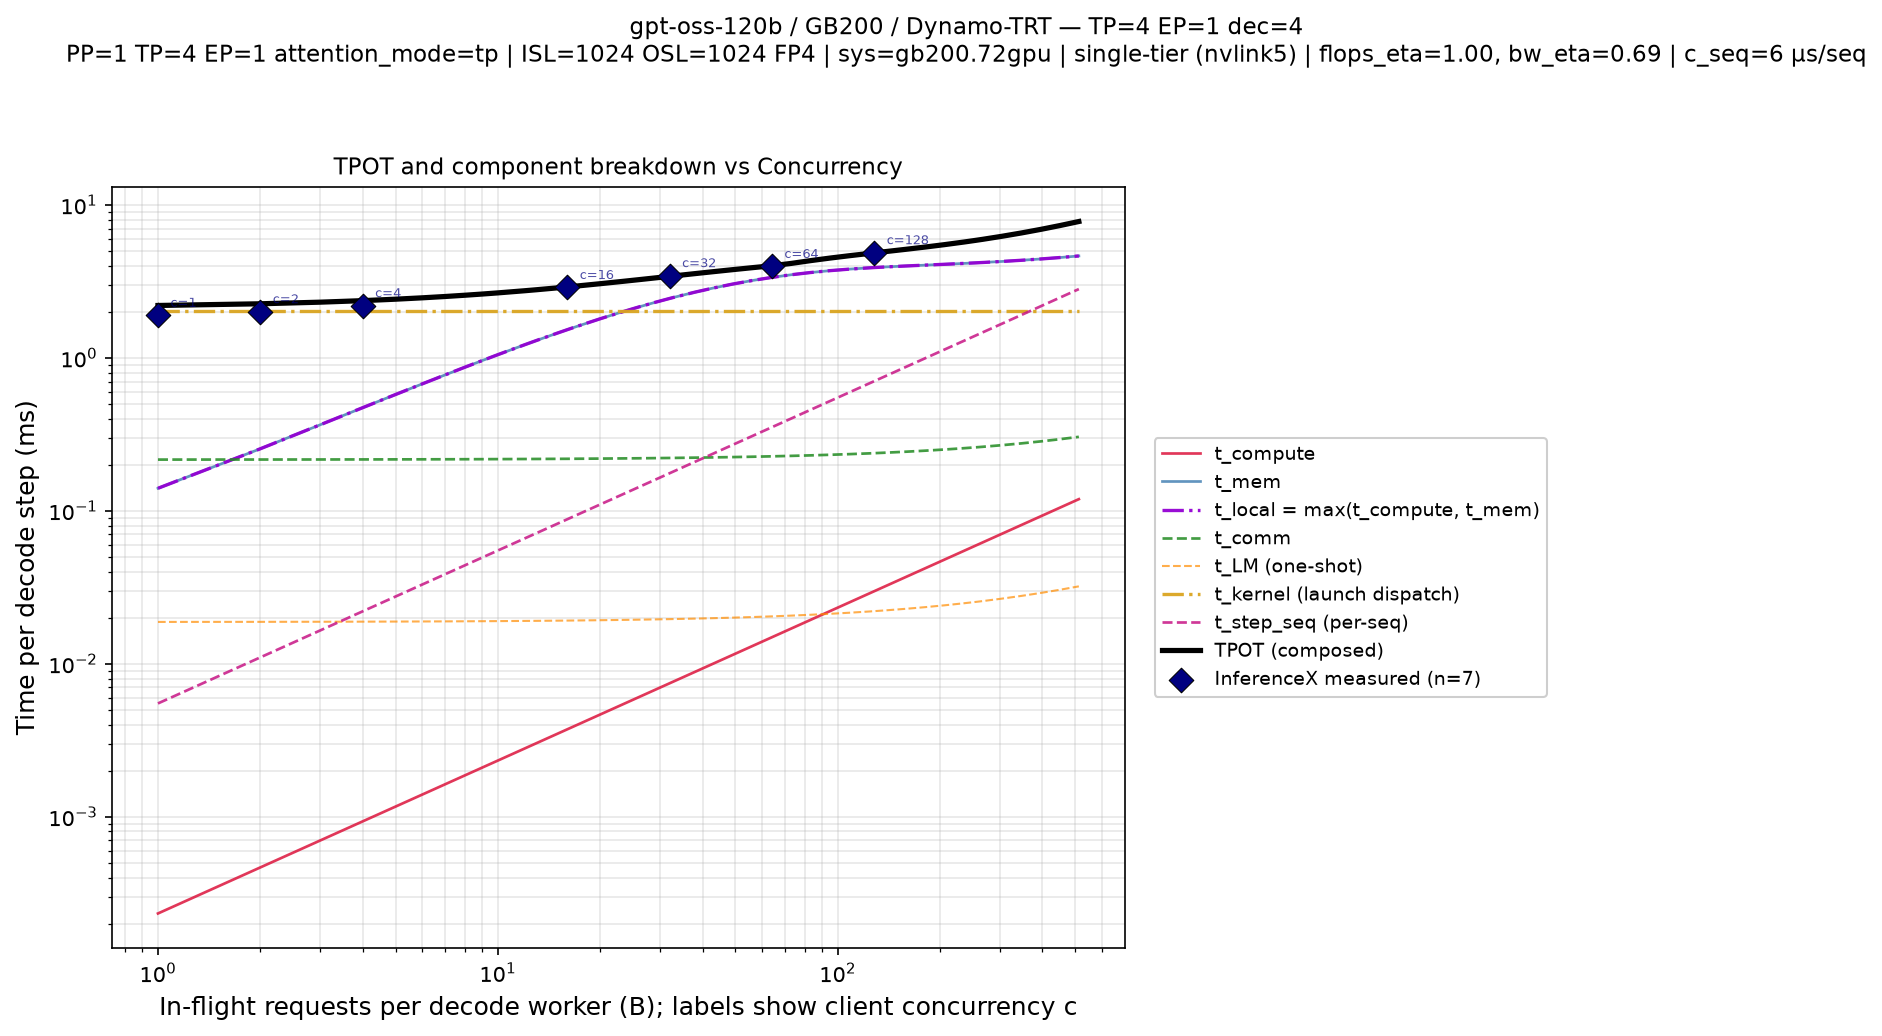
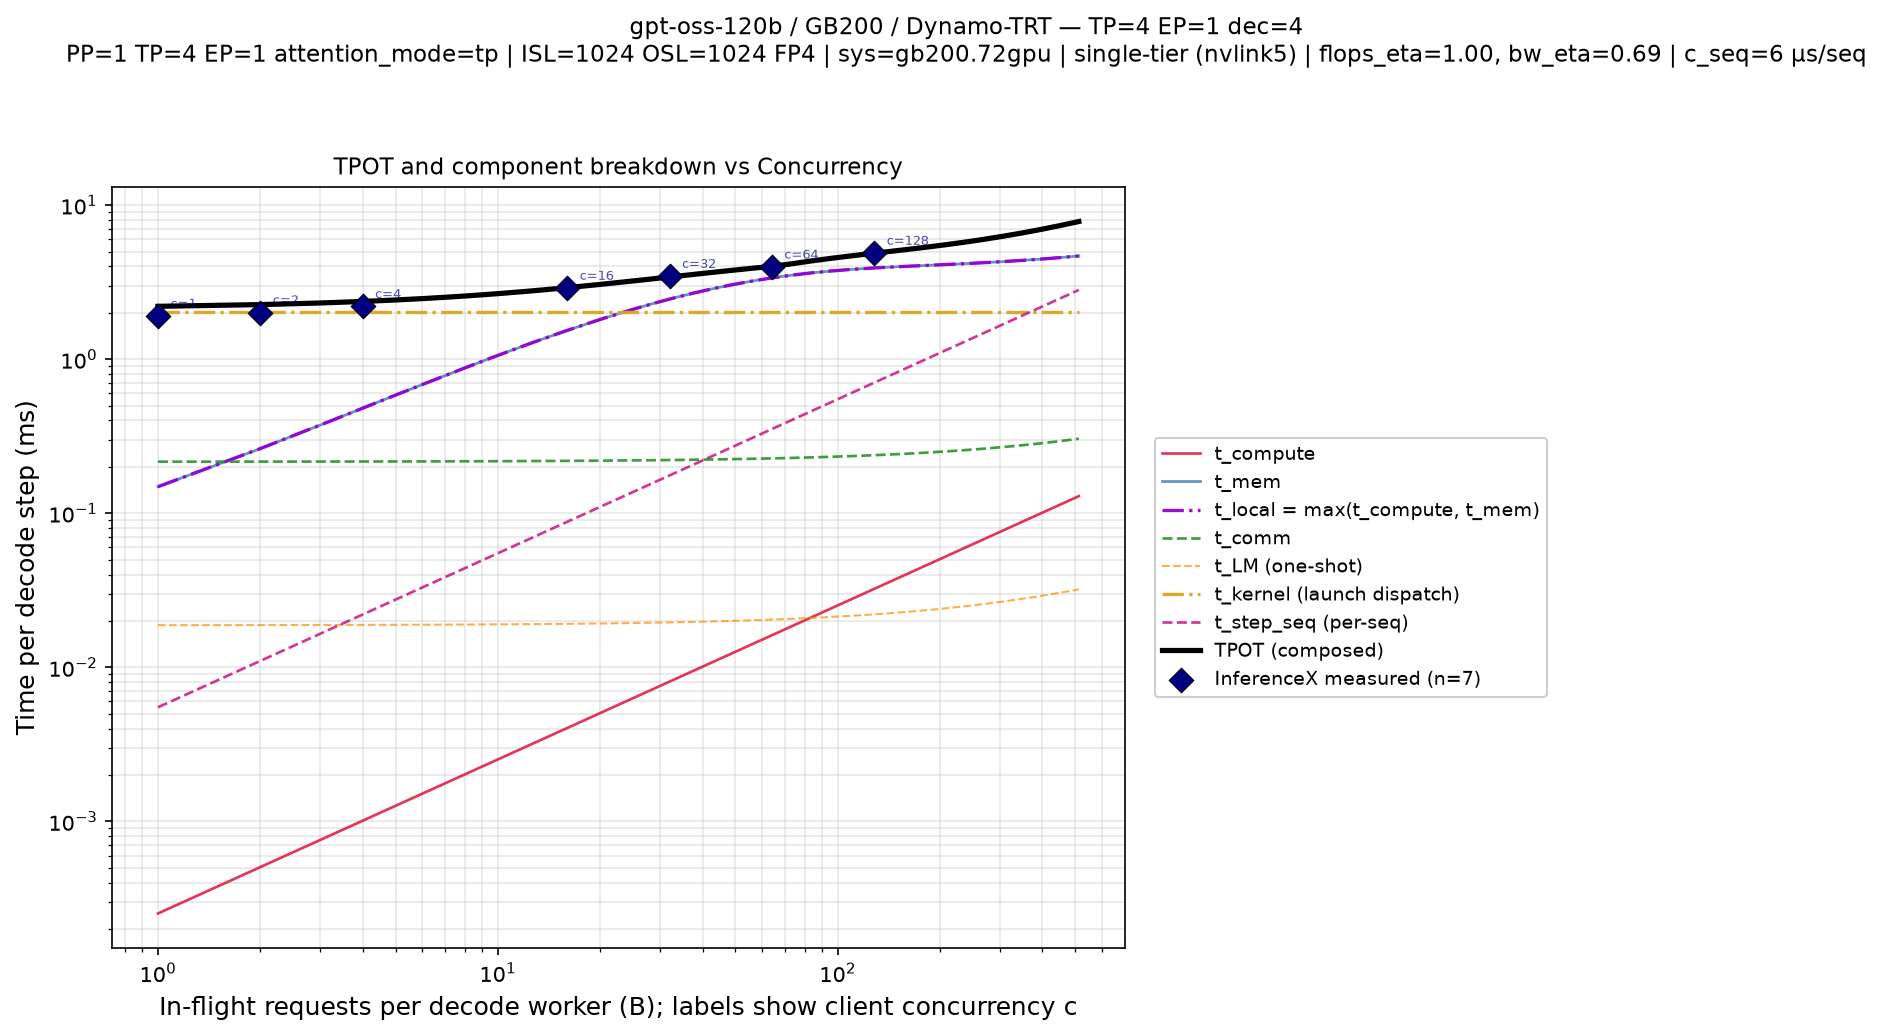
fix(validate): refit DeepSeek-R1 on GB200 on the corrected model
Three constants refit after the model corrections (memory-bandwidth factor,
host work per sequence, per-step host floor), the launch overlap kept:
13.6% over 43 points, 4.7% on the co-located TP-attention cut, 15.1% on a
cut held out of the fit. gpt-oss-120b keeps its constants (5.6%; 12.4% on
its held-out cut). Figures and README figures follow.

Claude-Session: https://claude.ai/code/session_01U2UPQRbj73Q8GAavhBpSdQ

diff --git a/benchmark/validate/dsr1_gb200_dynamo_trt.py b/benchmark/validate/dsr1_gb200_dynamo_trt.py
@@ -42,8 +42,9 @@ ISL, OSL = 1024, 1024
 CO_LOCATED_WORKLOADS = [(1024, 1024), (8192, 1024)]
 
 # Calibration is per setup (model, hardware, serving stack). Four constants,
-# fitted on 2026-11-16 by least mean absolute error on all eight cuts of this
-# setup together (43 points):
+# fitted by least mean absolute error on all eight cuts of this setup
+# together (43 points); the first three were refit on 2026-11-16 after the
+# model corrections of that day, with the overlap kept:
 #   bw_eta                 multiplies the memory bandwidth, on top of the 0.7
 #                          sustained fraction the GB200 system spec carries;
 #   c_seq                  host work per sequence per step (microseconds);
@@ -60,10 +61,11 @@ CO_LOCATED_WORKLOADS = [(1024, 1024), (8192, 1024)]
 # from the rank that holds them, not gathered to every rank first.
 # The data itself is noisy in places (for example 11.88 ms at B = 128 against
 # 7.74 ms at B = 144 on the TP = 36 cut), which bounds what any fit can reach.
-DEFAULT_BW_ETA = 0.62
-DEFAULT_C_SEQ_US = 4.8
+# Refit three constants on 2026-11-16 (final model): fitted error 13.6%, 15.1% on a cut held out of the fit.
+DEFAULT_BW_ETA = 0.6
+DEFAULT_C_SEQ_US = 4.9
 DEFAULT_KERNEL_LAUNCH_US = 4.0
-DEFAULT_C_ORCH_US = 620.0
+DEFAULT_C_ORCH_US = 640.0
 DEFAULT_SEQ_OVERLAP = 0.0
 DEFAULT_KERNEL_OVERLAP = 0.35
 DEFAULT_MOE_A2A_PATTERN = "scatter"

diff --git a/benchmark/validate/README.md b/benchmark/validate/README.md
@@ -10,10 +10,10 @@ The published set is the two per-cut drivers the root README walks through.
 
 | Driver | Model spec | System | Framework | Cuts |
 |---|---|---|---|---|
-| `gpt_oss_120b_gb200_dynamo_trt.py` | `gpt_oss_120b` | `gb200.72gpu` | dynamo-trt | TP=4 EP=1 dec=4 — mean absolute error (MAE) 5.6% over the 7 points of the fitted cut (ISL 1024); 11.8% over the 8 points of the held-out cut (`--isl 8192`) |
-| `dsr1_gb200_dynamo_trt.py` | `deepseek_r1_0528` | `gb200.72gpu` | dynamo-trt | EXACT (TP=36 EP=1), CO-LOCATED with DP-attention (TP=EP={8,16,32}), CO-LOCATED with TP-attention (TP=EP=8, four replicas, `--cut colo_tp_attn`) — 5.0% MAE over 14 points on the TP-attention cut; 13.0% over all 43 points; 14.5% on a cut held out of a refit |
+| `gpt_oss_120b_gb200_dynamo_trt.py` | `gpt_oss_120b` | `gb200.72gpu` | dynamo-trt | TP=4 EP=1 dec=4 — mean absolute error (MAE) 5.6% over the 7 points of the fitted cut (ISL 1024); 12.4% over the 8 points of the held-out cut (`--isl 8192`) |
+| `dsr1_gb200_dynamo_trt.py` | `deepseek_r1_0528` | `gb200.72gpu` | dynamo-trt | EXACT (TP=36 EP=1), CO-LOCATED with DP-attention (TP=EP={8,16,32}), CO-LOCATED with TP-attention (TP=EP=8, four replicas, `--cut colo_tp_attn`) — 4.7% MAE over 14 points on the TP-attention cut; 13.6% over all 43 points; 15.1% on a cut held out of the fit |
 
-Both are calibrated per setup: `bw_eta`, `c_seq`, the per-step host floor `c_orch` and the kernel-launch overlap `kernel_overlap_factor` are fitted per (model, hardware, framework) cell on that cell's InferenceX rows (least mean absolute error, 2026-11-16), while the per-kernel launch time and the additive host composition (`seq_overlap_factor = 0`) are shared by every cut on that serving stack. Constants fitted on one model do not carry over to another model on the same hardware and stack (mean errors of 16% to 41% when tried), so a fitted error is a statement about calibration quality; the error on a cut held out of the fit is the closer thing to a prediction test. The measured `conc` is the client concurrency of the whole endpoint, so `load_measured` divides it by `decode_num_workers` to get the per-replica batch the model works in. Everything else is first-principles. `bw_eta` multiplies on top of the `hbm_eta_beta` the system spec already carries (0.7 on GB200), so the shipped 0.69 and 0.62 mean 0.48× and 0.43× nameplate HBM bandwidth; it is a fitted residual, not a measured hardware constant. Accuracy on an *uncalibrated* cell is materially worse: the constants of another setup, or the unfitted values of a framework JSON, give errors of 20% and more on these same points.
+Both are calibrated per setup: `bw_eta`, `c_seq`, the per-step host floor `c_orch` and the kernel-launch overlap `kernel_overlap_factor` are fitted per (model, hardware, framework) cell on that cell's InferenceX rows (least mean absolute error, 2026-11-16), while the per-kernel launch time and the additive host composition (`seq_overlap_factor = 0`) are shared by every cut on that serving stack. Constants fitted on one model do not carry over to another model on the same hardware and stack (mean errors of 16% to 44% when tried), so a fitted error is a statement about calibration quality; the error on a cut held out of the fit is the closer thing to a prediction test. The measured `conc` is the client concurrency of the whole endpoint, so `load_measured` divides it by `decode_num_workers` to get the per-replica batch the model works in. Everything else is first-principles. `bw_eta` multiplies on top of the `hbm_eta_beta` the system spec already carries (0.7 on GB200), so the shipped 0.69 and 0.60 mean 0.48× and 0.42× nameplate HBM bandwidth; it is a fitted residual, not a measured hardware constant. Accuracy on an *uncalibrated* cell is materially worse: the constants of another setup, or the unfitted values of a framework JSON, give errors of 20% and more on these same points.
 
 ## Running
 
@@ -65,7 +65,7 @@ Empirical anchors observed across the validator suite:
 
 | Framework | Typical c_seq | Notes |
 |---|---|---|
-| `dynamo-trt` | about 5 µs/seq | Aggressive C++ with graph replay. The two published drivers fit 5.5 (gpt-oss-120b) and 4.8 (DeepSeek-R1). |
+| `dynamo-trt` | about 5 µs/seq | Aggressive C++ with graph replay. The two published drivers fit 5.5 (gpt-oss-120b) and 4.9 (DeepSeek-R1). |
 | `dynamo-sglang` | not measured | Expected above `dynamo-trt` from its Python share; the framework JSON ships 5 µs/seq as a starting point. |
 | `trt`, `trt-llm` (raw) | 50–100 µs/seq | No Dynamo orchestrator; more individual kernel launches per step. |
 | `sglang`, `vllm` (raw) | 30–60 µs/seq (estimated) | Python interpreter dominates. |
@@ -74,7 +74,7 @@ Empirical anchors observed across the validator suite:
 
 | Chip | `bw_eta` range observed |
 |---|---|
-| HBM3e on Blackwell (B200/GB200) | 0.62–1.05 once the host floor is fitted separately |
+| HBM3e on Blackwell (B200/GB200) | 0.60–1.07 once the host floor is fitted separately |
 | HBM3e on Blackwell Ultra (B300/GB300) | similar; less data |
 | HBM3 on Hopper (H100/H200) | 0.55–1.05; the low end is from fits that had no separate host floor |
 | Dense models on raw TRT | as low as 0.4 |
